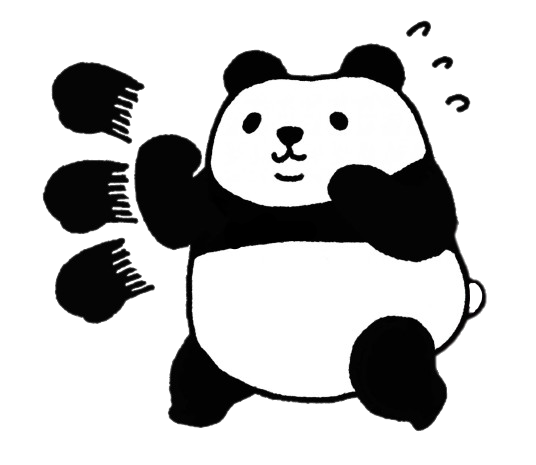
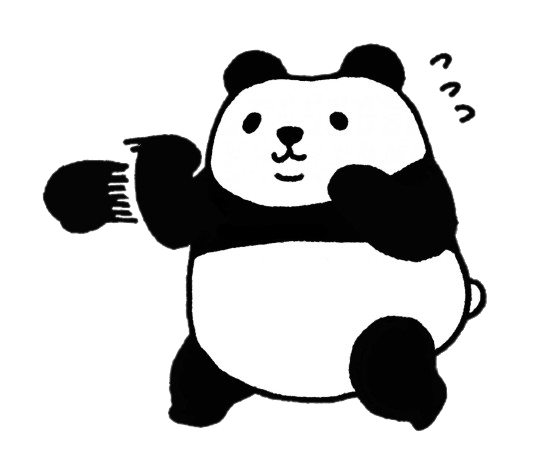
パンダが左右にも動きます

diff --git a/menu_recsys/templates/pages/user_home.html b/menu_recsys/templates/pages/user_home.html
@@ -46,13 +46,17 @@
 		</div>
 		<script>
 			"use strict";
+			var panda_img = 0;
 			var idx_weather = 22
-			var idx_tool = 24
+			var adjust_x = 0;
+			var pos_y = 0;
+			var move = 0;
 			// カウンタ変数の初期化
 			var count = 0;
 
+			//画像へのパス
 			var pathList = [
-				//健康体 500x500
+				//健康体 500x500 9個
 				"{% static 'images/panda_anim/nomal1.png' %}",
 				"{% static 'images/panda_anim/nomal2.png' %}",
 				"{% static 'images/panda_anim/nomal3.png' %}",
@@ -62,14 +66,14 @@
 				"{% static 'images/panda_anim/idol1.png' %}",
 				"{% static 'images/panda_anim/idol2.png' %}",
 				"{% static 'images/panda_anim/idol3.png' %}",
-				//元気なし
+				//元気なし　2個
 				"{% static 'images/panda_anim/weak1.png' %}",
 				"{% static 'images/panda_anim/weak2.png' %}",
-				//太りすぎ
+				//太りすぎ　3個
 				"{% static 'images/panda_anim/fat1.png' %}",
 				"{% static 'images/panda_anim/fat2.png' %}",
 				"{% static 'images/panda_anim/fat3.png' %}",
-				//移動
+				//移動　7個
 				"{% static 'images/panda_anim/stand.png' %}",
 				"{% static 'images/panda_anim/run_left1.png' %}",
 				"{% static 'images/panda_anim/run_left2.png' %}",
@@ -83,12 +87,12 @@
 
 
 				//天気
-				"{% static 'images/sunny.png' %}",
 				"{% static 'images/sky.png' %}", //1024x683
-				//ツールアイコン
-				"{% static 'images/search_mushimegane.png' %}",
-				"{% static 'images/camera.png' %}",
-				"{% static 'images/animal_01_i.png' %}"
+				//100x100
+				"{% static 'images/clips/10.png' %}",
+				"{% static 'images/clips/20.png' %}",
+				"{% static 'images/clips/30.png' %}",
+				"{% static 'images/clips/12.png' %}",
 			];
 
 			//画像読み込み
@@ -98,6 +102,78 @@
     			image.src = pathList[i];
     			img.push(image);
 			}
+
+			function setimg(){
+				var p_id = 0;
+				var p_type = "{{ panda_type }}";
+				var type_num = 0;
+				
+
+				if (p_type == "muscle"){
+					type_num = 3
+				}else if(p_type == "slim"){
+					type_num = 6
+				}
+
+				var p_status = "{{ panda_status }}";
+				if (p_status == "fine"){
+					if ((count %150) < 50 ) {
+						p_id = 0 + type_num;
+					} else if ((count %150) < 100){
+						p_id = 1 + type_num;
+					} else{
+						p_id = 2 + type_num;
+					}
+				}else if(p_status == "notgood"){
+					adjust_x = 50;
+					if ((count %100) < 50 ) {
+						p_id = 9;
+					} else {
+						p_id = 10;
+					}
+				}else if(p_status == "fat"){
+					if ((count %150) < 50 ) {
+						p_id = 11;
+					} else if ((count %150) < 75){
+						p_id = 12;
+					} else if ((count %150) < 125){
+						p_id = 13;
+					} else{
+						p_id = 12;
+					}
+				}
+				panda_img = img[p_id];
+			}
+
+			function  move_panda(dh){
+				if(move > 10){//右に移動
+					if(count%4==0){
+						move = move-1;
+						pos_y = pos_y+1;
+					}
+
+					if ((count %100) < 50 ) {
+						panda_img = img[18];
+					} else {
+						panda_img = img[19];
+					}
+				}else if(move < -10){
+					if(count%4==0){
+						move = move+1;
+						pos_y = pos_y-1;
+					}
+					if ((count %100) < 50 ) {
+						panda_img = img[15];
+					} else {
+						panda_img = img[16];
+					}
+				}else {
+					pos_y = pos_y + move;
+					move = 0;
+				}
+				
+			}
+
 
 			//天気部分の描画
 			function weather(){
@@ -110,23 +186,31 @@
 				const dw = frame.clientWidth;
 				const dh = frame.clientHeight;
 				var weather = "{{ weather }}";
-				const img_weather = new Image();
+				var adj_id = 0;
+				//天気の背景
+				ctx.drawImage(img[idx_weather], 0, 0, 1024, 683, 0, 0, dw, dh);
 
-				ctx.drawImage(img[idx_weather+1], 0, 0, 1024, 683, 0, 0, dw, dh);
-				if (weather="晴れ"){
-					img_weather.src = "{% static 'images/sunny.png' %}";
-					ctx.drawImage(img[idx_weather], 0, 0, 600, 600, 20, 0, dh/2, dh/2);
+				//天気の表示
+				if(weather=="晴れ"){
+					adj_id = 1;
+				}else if (weather=="曇り"){
+					adj_id = 2;
+				}else if(weather=="雨"){
+					adj_id = 3;
+				}else{
+					adj_id = 4;
 				}
+				ctx.drawImage(img[idx_weather+adj_id], 0, 0, 100, 100, 20, 0, dh/2, dh/2);
 
+				//気温の表示
 				ctx.fillStyle = 'rgba(255, 0, 0)';
-				// ctx.font = '20pt Arial';
 				ctx.font = 'bold 20px sans-serif'
 				var maxt_text = "最高気温　" + "{{ max_temp }}"
 				var mint_text = "最低気温　" + "{{ min_temp }}"
+
 				//文字の背景
 				var maxt_w = ctx.measureText(maxt_text);
 				var mint_w = ctx.measureText(mint_text);
-
 				//先に背景ボックスを描画
 				ctx.fillStyle = '#e0ffff';
 				ctx.fillRect(20,dh*3/5-10,maxt_w.width,20);
@@ -136,6 +220,7 @@
 				ctx.lineWidth = 5;
 				ctx.strokeRect(20,dh*3/5-10,maxt_w.width,20);
 				ctx.strokeRect(20,dh*4/5-10,maxt_w.width,20);
+
 				//テキストを描画
 				ctx.textBaseline = 'middle'
 				ctx.fillStyle = 'rgba(255, 0, 0)';
@@ -153,58 +238,24 @@
 				canvas.height = frame.clientHeight;
 				const dw = frame.clientWidth;
 				const dh = frame.clientHeight;
-
 				// 2Dコンテキストを取得する
 				var ctx = canvas.getContext("2d"); 
 				
-				var img_back = new Image();
-				img_back.src = "{% static 'images/camp.png' %}";//1920x1080
-
-				var img_g = new Image();//330x330
-				img_g.src = "{% static 'images/animal_01_g.png' %}";
-				var img_i = new Image();
-				img_i.src = "{% static 'images/animal_01_i.png' %}";
-
-				// ctx.drawImage(img_back, 900 - (dw/2), 900 - dh, dw, dh, 0, 0, dw, dh);
-				// ctx.drawImage(img[0], 2552/2 - (dw/2), 1701-dh*3, dw, dh*3, 0, 0, dw, dh);
+				//背景の表示
 				ctx.drawImage(img[21], 2552/2 - (1701*dw)/dh/2, 0, (1701*dw)/dh, 1701, 0, 0, dw, dh);
-				// if ((count %80) > 40 ) {
-				// 		ctx.drawImage(img_g, 0, 0, 330, 330, (dw/2) - (dh/6), dh*1/2, dh/3, dh/3);
-				// } else {
-				// 		ctx.drawImage(img_i, 0, 0, 330, 330, (dw/2) - (dh/6), dh*1/2, dh/3, dh/3);
-				// }
-				if ((count %80) > 40 ) {
-						ctx.drawImage(img[0], 0, 0, 500, 500, (dw/2)-dh/4, dh*1/2, dh/2, dh/2);
-				} else {
-						ctx.drawImage(img[1], 0, 0, 500, 500, (dw/2)-dh/4, dh*1/2, dh/2, dh/2);
+				
+				setimg();
+				
+				if(count%901 == 0 && move==0){ move = Math.floor(Math.random() * ( ((dh/4)+1-pos_y) - ((-dh/4)-pos_y) )) + ((-dh/4)-pos_y); }
+
+				if (move != 0 ){
+					move_panda(dh);
 				}
+
+				//パンダの表示
+				ctx.drawImage(panda_img, 0, 0, 600, 600, (dw/2)-dh/4 +pos_y, dh*1/2 + adjust_x, dh/2, dh/2);
 			}
 
-			//htmlの描画にしたので使ってないです
-			//ツール部分の描画
-			function tool(){
-				// キャンバス要素を取得する
-				const	frame = document.getElementById( "user_home_tool" );
-				const canvas = document.getElementById("canvas_tool");
-				canvas.width = frame.clientWidth;
-				canvas.height = frame.clientHeight;
-				const dw = frame.clientWidth;
-				const dh = frame.clientHeight;
-
-				// 2Dコンテキストを取得する
-				var ctx = canvas.getContext("2d"); 
-
-				var img_search = new Image();
-				img_search.src = "{% static 'images/search_mushimegane.png' %}";//256x256
-				var img_camera = new Image();
-				img_camera.src = "{% static 'images/camera.png' %}";//256x256
-				var img_setting = new Image();
-				img_setting.src = "{% static 'images/setting.png' %}";//256x256
-
-				// ctx.drawImage(img_search, 0, 0, 256, 256, dw/2-dh/6, 0, dh/3, dh/3);
-				// ctx.drawImage(img_camera, 0, 0, 256, 256, dw/2-dh/6, dh/3, dh/3, dh/3);
-				// ctx.drawImage(img_setting, 0, 0, 256, 256, dw/2-dh/6, dh*2/3, dh/3, dh/3);
-			}
 
 			// requestAnimationFrame()メソッドでループを実行
 			function loop() {
@@ -215,10 +266,8 @@
 				weather();
 				//パンダ部分
 				panda();
-				//ツール部分
-				//tool();
-
-				   // 次のフレームをリクエストする
+				
+				// 次のフレームをリクエストする
 				requestAnimationFrame(loop);
 			}
 

diff --git a/menu_recsys/views.py b/menu_recsys/views.py
@@ -26,11 +26,11 @@ def logout(request):
 # ユーザホーム
 def user_home(request):
     ctx = {
-        "weather": "晴れ",
+        "weather": "曇り時々",
         "max_temp": "28℃",
         "min_temp": "14℃",
-        "panda_type": "nutral",
-        "panda_status": "fine",
+        "panda_type": "nutral", #nutral, slim, muscleの3つ?
+        "panda_status": "fine", #fine, notgood, fatの3つ?
     }
     return render(request, 'pages/user_home.html', ctx)
 
